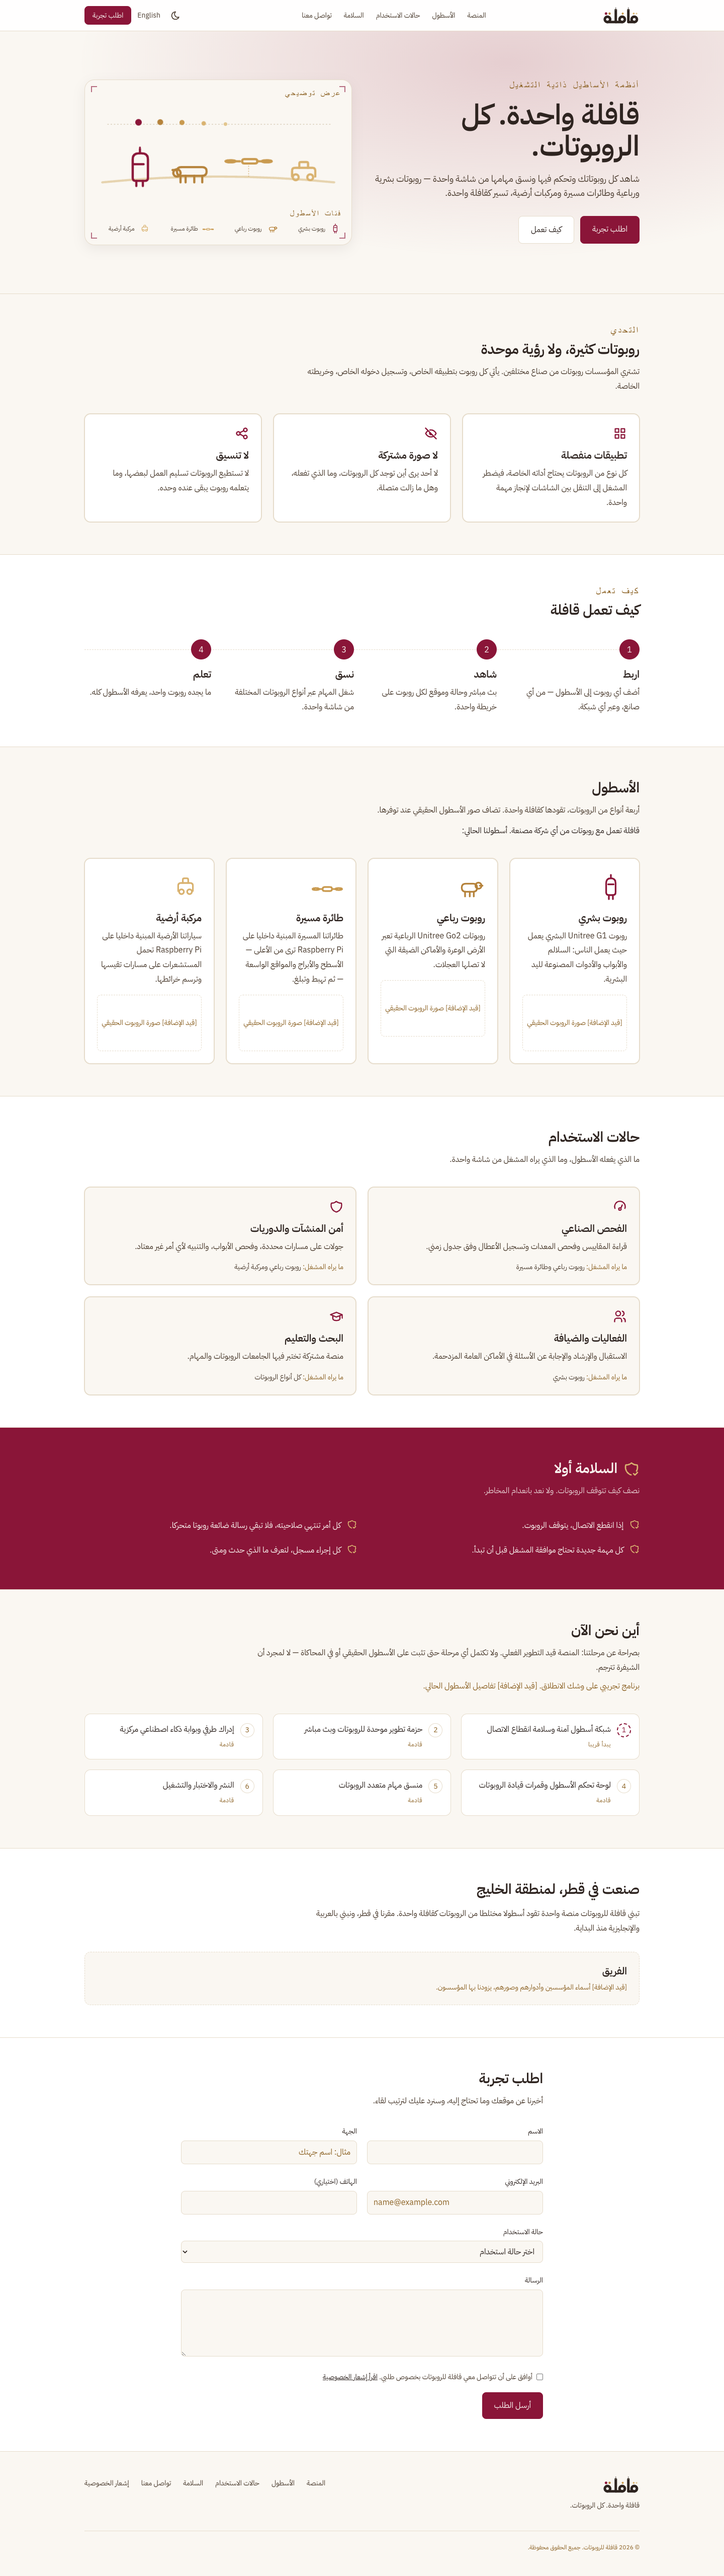
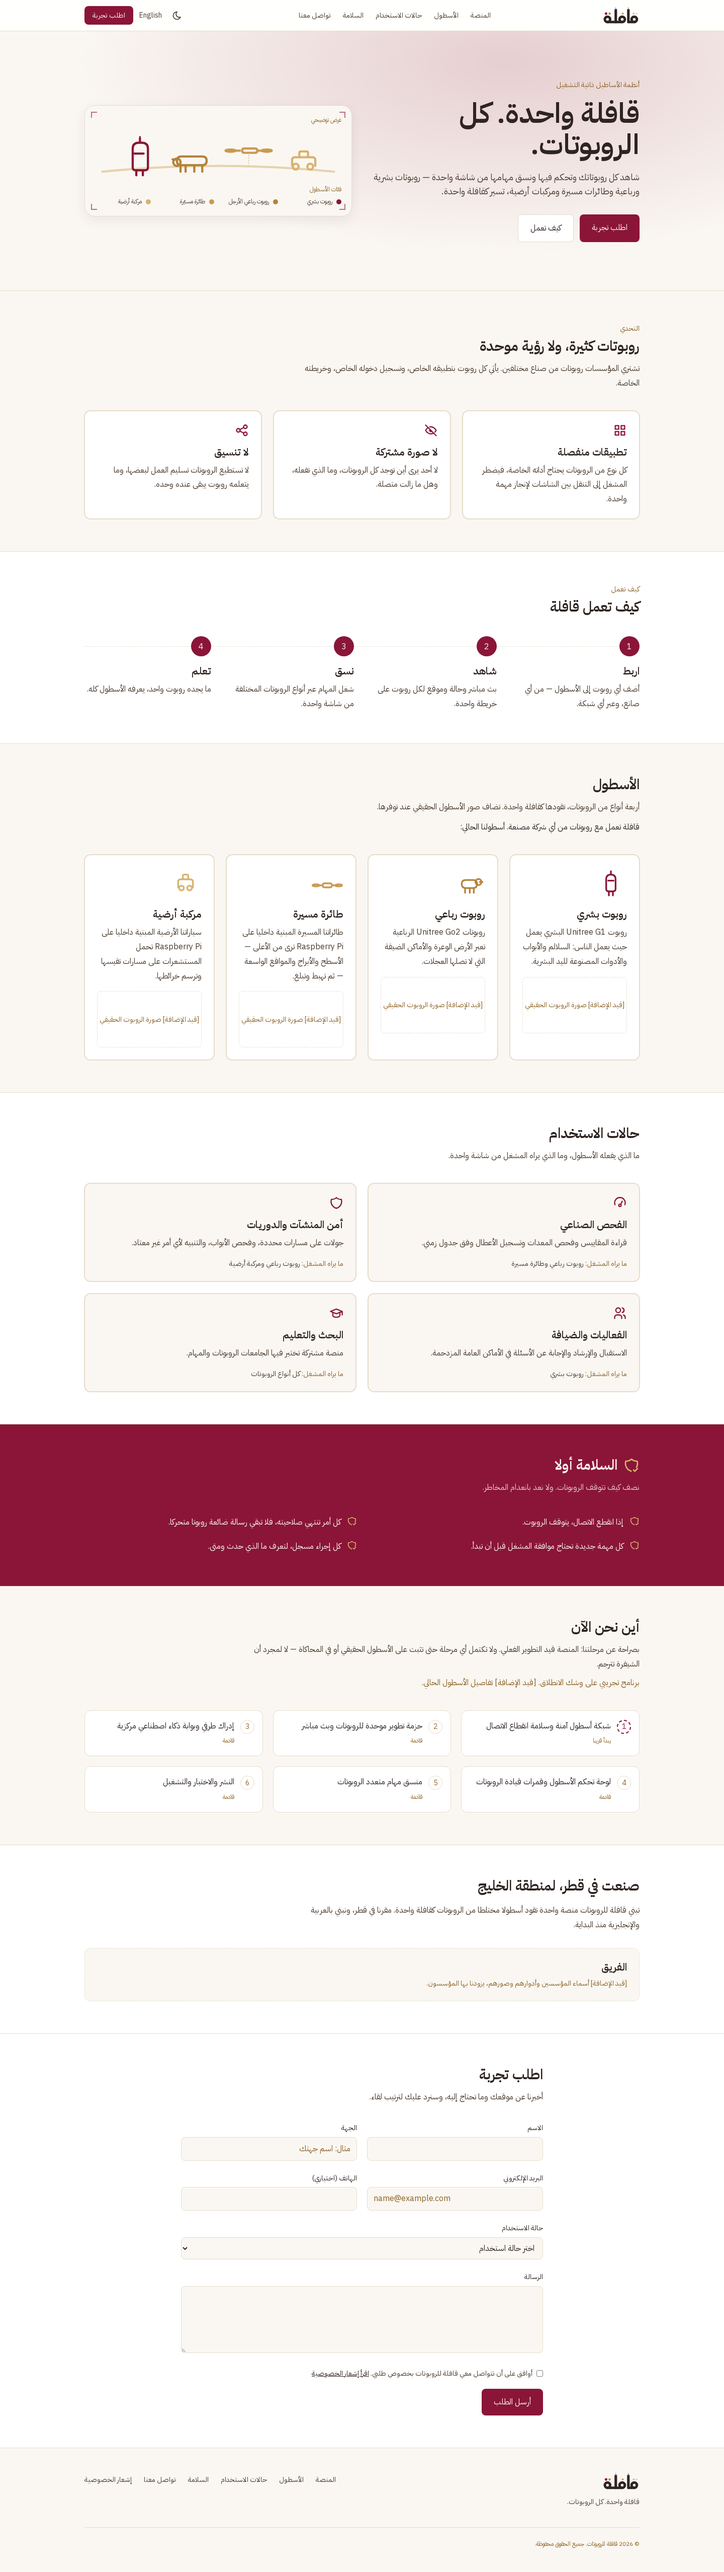
fix: Arabic labels, HUD caravan dots and legend (PR #12 review)
- Shared .caps/.eyebrow label styles with an Arabic override: no
  letter-spacing, uppercase or mono font on Arabic. Used by Hero, Problem,
  HowItWorks, HudPanel and the Status phase labels.
- Mono font stack falls back to IBM Plex Sans Arabic for Arabic glyphs.
- Remove the caravan-dots row from the HUD convoy; dots belong to the logo.
  Drop the unused CaravanDots component and caravan-step animation.
- HUD legend: coloured dot per robot class with its own labels.
- CLAUDE.md: add Rules section (no AI attribution in commits/PRs).
- Refresh the 8 reference screenshots.

diff --git a/components/HudPanel.tsx b/components/HudPanel.tsx
@@ -1,21 +1,19 @@
 import { useTranslations } from "next-intl";
 import RobotConvoy from "./RobotConvoy";
-import RobotIcon from "./RobotIcon";
 
 // HUD-style hero illustration: a framed panel showing the convoy pictograms on a
-// route line, with corner ticks and a legend. Clearly labelled "Illustrative view"
+// dune, with corner ticks and a legend. Clearly labelled "Illustrative view"
 // — no numbers, no telemetry, no live-state claims.
-const LEGEND = ["humanoid", "quadruped", "drone", "ground"] as const;
+// Legend dots use the convoy colour of each robot class.
+const LEGEND = [
+  { type: "humanoid", dot: "bg-primary-accent" },
+  { type: "quadruped", dot: "bg-sand-dark" },
+  { type: "drone", dot: "bg-sand" },
+  { type: "ground", dot: "bg-sand-light" },
+] as const;
 
 export default function HudPanel() {
   const t = useTranslations("hero");
-  const tf = useTranslations("fleet");
-  const label: Record<(typeof LEGEND)[number], string> = {
-    humanoid: tf("humanoidTitle"),
-    quadruped: tf("quadrupedTitle"),
-    drone: tf("droneTitle"),
-    ground: tf("groundTitle"),
-  };
   return (
     <div className="relative w-full max-w-xl rounded-panel border border-edge bg-overlay p-5 shadow-soft">
       {/* Corner ticks */}
@@ -24,17 +22,17 @@ export default function HudPanel() {
       <span aria-hidden className="pointer-events-none absolute bottom-3 start-3 h-3 w-3 border-b-2 border-s-2 border-primary-accent/60" />
       <span aria-hidden className="pointer-events-none absolute bottom-3 end-3 h-3 w-3 border-b-2 border-e-2 border-primary-accent/60" />
 
-      <p className="font-mono text-micro uppercase tracking-[0.2em] text-fg-muted">{t("hudLabel")}</p>
+      <p className="eyebrow text-micro">{t("hudLabel")}</p>
 
       <RobotConvoy className="mt-3 h-auto w-full" />
       <span className="sr-only">{t("convoyAlt")}</span>
 
-      <p className="mt-2 font-mono text-micro uppercase tracking-[0.2em] text-fg-muted">{t("hudLegend")}</p>
+      <p className="eyebrow mt-2 text-micro">{t("hudLegend")}</p>
       <ul className="mt-2 grid grid-cols-2 gap-x-4 gap-y-2 sm:grid-cols-4">
-        {LEGEND.map((type) => (
+        {LEGEND.map(({ type, dot }) => (
           <li key={type} className="flex items-center gap-2">
-            <RobotIcon type={type} className="h-6 w-6 shrink-0" />
-            <span className="text-micro text-fg-soft">{label[type]}</span>
+            <span aria-hidden className={`h-2.5 w-2.5 shrink-0 rounded-full ${dot}`} />
+            <span className="text-micro text-fg-soft">{t(`legend.${type}`)}</span>
           </li>
         ))}
       </ul>

diff --git a/components/RobotConvoy.tsx b/components/RobotConvoy.tsx
@@ -1,42 +1,21 @@
 // Brand illustration: the four fleet robots walk as a convoy on a dune, growing
-// in size toward the maroon humanoid leader, with caravan dots moving along the
-// route line above. Monoline rounded strokes, one weight, no faces or outlines.
+// in size toward the maroon humanoid leader. The caravan dots belong to the logo
+// only, so they are not drawn here. Monoline rounded strokes, one weight, no faces or outlines.
 // Mirrors in RTL so the convoy always moves in reading direction.
 // Maroon leader uses the theme-aware accent so it stays visible on dark surfaces.
 const LEADER = "rgb(var(--c-primary-accent))";
-const DOTS = [
-  { cx: 560, r: 9, fill: LEADER },
-  { cx: 500, r: 8, fill: "#B5823A" },
-  { cx: 440, r: 7, fill: "#C99A4F" },
-  { cx: 380, r: 6, fill: "#D9B26F" },
-  { cx: 320, r: 5, fill: "#E3C68E" },
-];
 
 export default function RobotConvoy({ className = "" }: { className?: string }) {
   const s = { fill: "none", strokeWidth: 6, strokeLinecap: "round" as const, strokeLinejoin: "round" as const };
   return (
     <svg
-      viewBox="0 0 680 280"
+      viewBox="0 100 680 140"
       className={`${className} rtl:-scale-x-100`}
       role="img"
       aria-hidden="true"
       width="680"
-      height="280"
+      height="140"
     >
-      {/* Route line + caravan dots */}
-      <line x1="30" y1="54" x2="650" y2="54" stroke="#CDBFA6" strokeWidth="1.5" strokeDasharray="4 5" />
-      {DOTS.map((d, i) => (
-        <circle
-          key={i}
-          cx={d.cx}
-          cy="54"
-          r={d.r}
-          fill={d.fill}
-          className="caravan-dot"
-          style={{ animationDelay: `${i * 0.2}s` }}
-        />
-      ))}
-
       {/* Dune */}
       <path d="M20 214 Q340 182 660 214" stroke="#E6D3AE" strokeWidth="6" strokeLinecap="round" fill="none" />
 

diff --git a/app/globals.css b/app/globals.css
@@ -64,6 +64,27 @@ body {
     0 8px 24px -6px rgb(0 0 0 / 0.45);
 }
 
+/* Shared label styles. Caps = brand label (uppercase, 0.2em tracking); eyebrow =
+   section label above a heading. English only: Arabic never gets letter-spacing,
+   uppercase or the mono font — they break the joins between letters. */
+@layer components {
+  .caps {
+    text-transform: uppercase;
+    letter-spacing: 0.2em;
+  }
+  .eyebrow {
+    @apply caps font-mono text-small font-medium text-fg-muted;
+  }
+  .caps:lang(ar),
+  .eyebrow:lang(ar) {
+    letter-spacing: normal;
+    text-transform: none;
+  }
+  .eyebrow:lang(ar) {
+    font-family: var(--font-plex-ar), var(--font-plex), sans-serif;
+  }
+}
+
 /* Arabic gets a taller line height for its ascenders, descenders and dots. */
 html[dir="rtl"] body {
   line-height: 1.8;
@@ -76,28 +97,10 @@ html[dir="rtl"] body {
   border-radius: 2px;
 }
 
-/* Caravan dots step along the route line; leader (last) included. */
-@keyframes caravan-step {
-  0%,
-  100% {
-    transform: translateY(0);
-  }
-  50% {
-    transform: translateY(-6px);
-  }
-}
-
-.caravan-dot {
-  animation: caravan-step 1.6s ease-in-out infinite;
-}
-
 /* Respect the OS reduced-motion setting everywhere. */
 @media (prefers-reduced-motion: reduce) {
   html {
     scroll-behavior: auto;
-  }
-  .caravan-dot {
-    animation: none;
   }
   *,
   *::before,

diff --git a/components/Hero.tsx b/components/Hero.tsx
@@ -9,7 +9,7 @@ export default function Hero() {
       <div className="hero-glow" aria-hidden="true" />
       <div className="relative mx-auto grid max-w-6xl items-center gap-10 px-4 py-16 sm:px-6 lg:grid-cols-2 lg:py-24">
         <div>
-          <p className="font-mono text-small font-medium uppercase tracking-[0.2em] text-fg-muted">
+          <p className="eyebrow">
             {t("tagline")}
           </p>
           <h1 className="mt-4 font-semibold text-fg text-[2.5rem] leading-[1.1] sm:text-display">

diff --git a/components/HowItWorks.tsx b/components/HowItWorks.tsx
@@ -11,7 +11,7 @@ export default function HowItWorks() {
   return (
     <section id="how-it-works" className="border-b border-edge bg-surface">
       <div className="mx-auto max-w-6xl px-4 py-16 sm:px-6">
-        <p className="font-mono text-small font-medium uppercase tracking-[0.2em] text-fg-muted">
+        <p className="eyebrow">
           {t("eyebrow")}
         </p>
         <h2 className="mt-2 text-h2 font-semibold text-fg">{t("title")}</h2>

diff --git a/components/Problem.tsx b/components/Problem.tsx
@@ -11,7 +11,7 @@ export default function Problem() {
   return (
     <section id="problem" className="border-b border-edge bg-bg">
       <div className="mx-auto max-w-6xl px-4 py-16 sm:px-6">
-        <p className="font-mono text-small font-medium uppercase tracking-[0.2em] text-fg-muted">
+        <p className="eyebrow">
           {t("eyebrow")}
         </p>
         <h2 className="mt-2 text-h2 font-semibold text-fg">{t("title")}</h2>

diff --git a/tailwind.config.ts b/tailwind.config.ts
@@ -42,7 +42,7 @@ const config: Config = {
       fontFamily: {
         sans: ["var(--font-plex)", "system-ui", "sans-serif"],
         arabic: ["var(--font-plex-ar)", "var(--font-plex)", "sans-serif"],
-        mono: ["var(--font-plex-mono)", "monospace"],
+        mono: ["var(--font-plex-mono)", "var(--font-plex-ar)", "monospace"],
       },
       fontSize: {
         display: ["3.5rem", { lineHeight: "1.1" }],

diff --git a/components/Status.tsx b/components/Status.tsx
@@ -51,7 +51,7 @@ export default function Status() {
               </span>
               <span>
                 <span className="block text-fg">{t(key)}</span>
-                <span className="text-micro uppercase tracking-wider text-fg-muted">
+                <span className="caps text-micro text-fg-muted">
                   {t(LEGEND[state])}
                 </span>
               </span>

diff --git a/CLAUDE.md b/CLAUDE.md
@@ -11,6 +11,10 @@ This repository holds the public Qafila Robotics landing page (Next.js, App Rout
 - Every page works in Arabic (RTL) and English. Use logical CSS properties.
 - No invented customers, numbers, quotes or capabilities. Mark placeholders [TBD].
 
+## Rules
+- Commits and PRs in all Qafila repos must not mention Claude or AI, and must not include
+  Co-Authored-By or "Generated with" lines.
+
 ## Design tokens and assets
 Design tokens and assets will later come from the private package `@qafila/brand`, published from
 `qafila-platform` (`packages/brand`). Until that package exists, the local `tailwind.config.ts`
